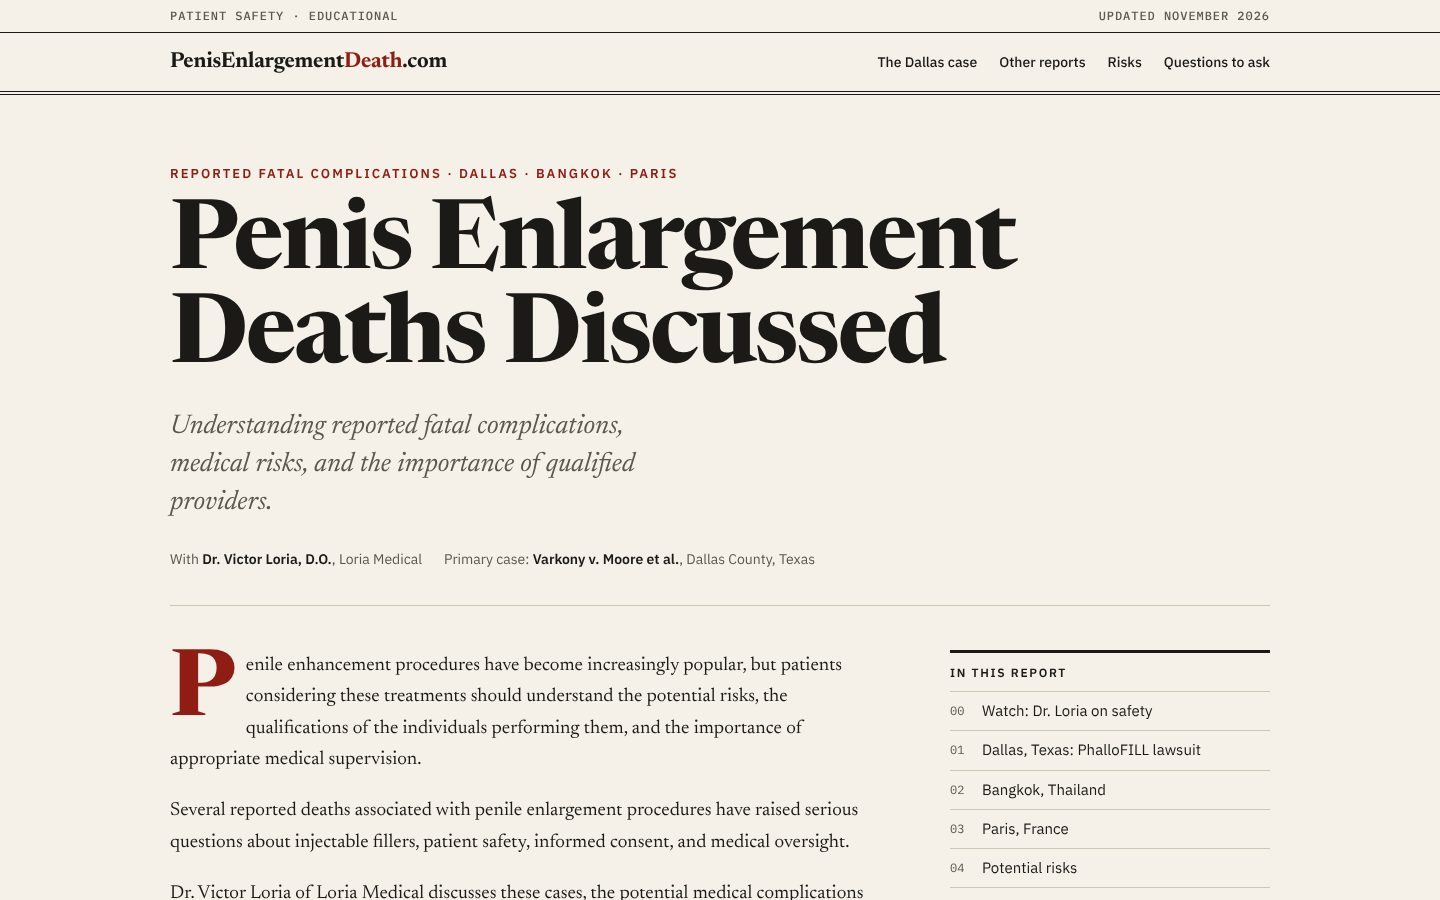
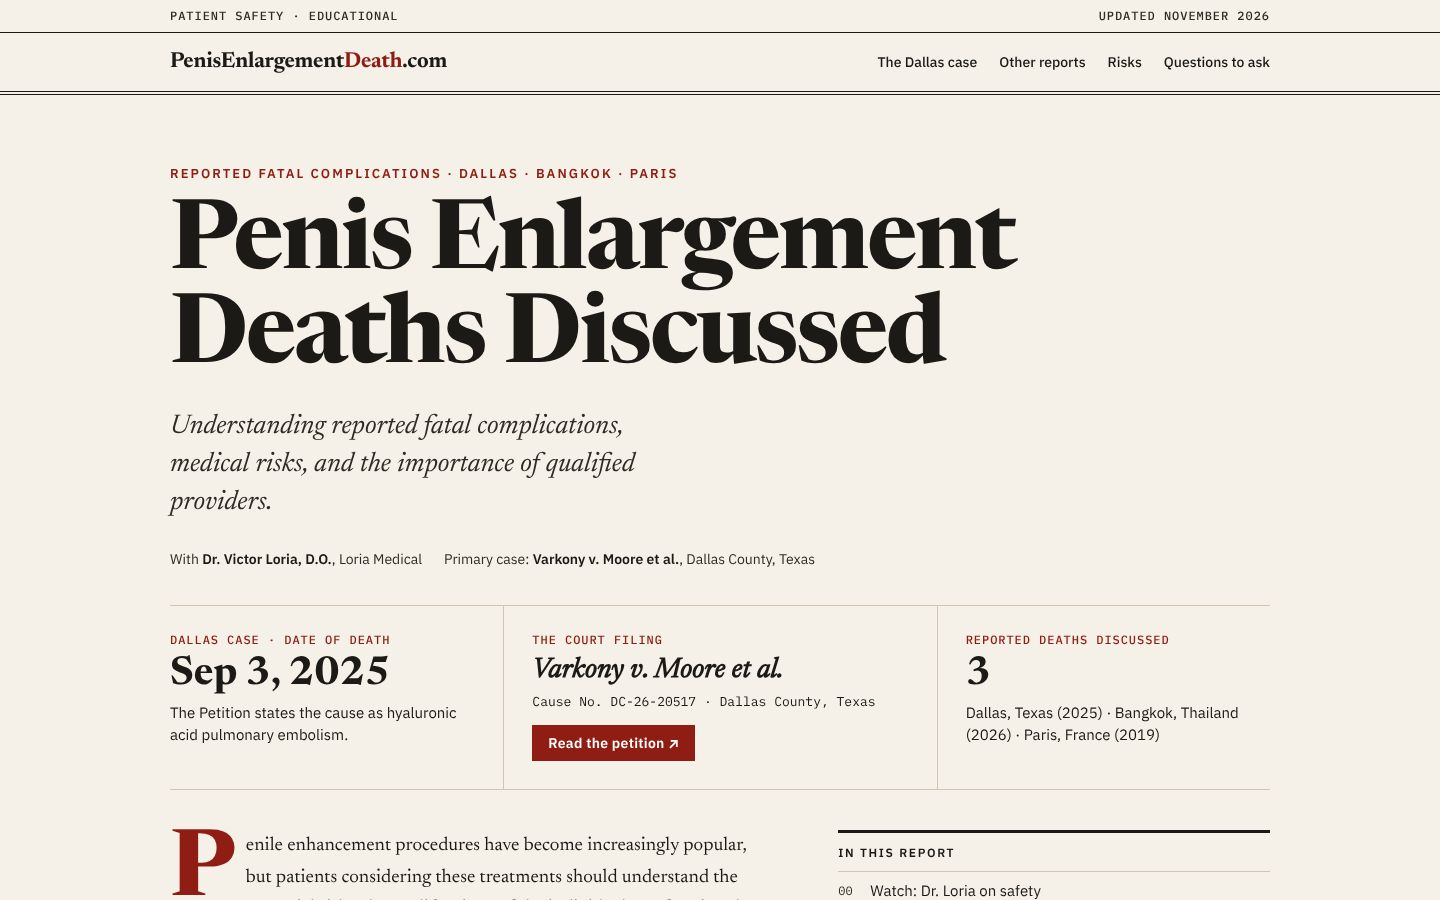
Concept 1: full-width layout
Claude-Session: https://claude.ai/code/session_016LKYeJXUpH5bp2AGxLf6xp

Changed region(s): [[0.0938, 0.6844, 0.875, 1.0], [0.6562, 0.6844, 0.875, 0.84], [0.125, 0.4667, 0.4375, 0.5289]]

diff --git a/case-file/index.html b/case-file/index.html
@@ -37,8 +37,20 @@
   .byline{display:flex;flex-wrap:wrap;gap:8px 22px;margin-top:28px;font:400 14px/1.4 'IBM Plex Sans',sans-serif;color:var(--muted)}
   .byline b{color:var(--ink);font-weight:600}
   /* article grid */
-  .grid{display:grid;grid-template-columns:minmax(0,1fr);max-width:860px;margin:0 auto;gap:clamp(28px,4vw,40px);padding:44px 0 20px}
-  article p{margin:0 0 1.05em}
+  main p{margin:0 0 1.05em}
+  .facts{display:grid;grid-template-columns:1fr 1.3fr 1fr;border-bottom:1px solid var(--rule)}
+  .facts .fact{padding:26px 28px 28px;border-left:1px solid var(--rule);font:400 15px/1.5 'IBM Plex Sans',sans-serif;display:flex;flex-direction:column;align-items:flex-start;gap:6px}
+  .facts .fact:first-child{border-left:0;padding-left:0}
+  .facts .fact:last-child{padding-right:0}
+  .facts .label{font:500 12px/1.3 'IBM Plex Mono',monospace;letter-spacing:.08em;text-transform:uppercase;color:var(--red)}
+  .facts .big{font:700 40px/1.05 'Newsreader',serif;color:var(--ink)}
+  .facts .big.sm{font-size:28px;line-height:1.15}
+  .facts .mono{font-size:13px;margin-bottom:8px}
+  .row{display:grid;grid-template-columns:minmax(0,7fr) minmax(0,5fr);gap:clamp(32px,5vw,64px);align-items:start;margin-top:28px}
+  .row.even{grid-template-columns:1fr 1fr}
+  .facts + .row{margin-top:40px}
+  .row .col > :first-child{margin-top:0}
+  .intro p{max-width:70ch}
   .lede::first-letter{float:left;font:700 92px/.78 'Newsreader',serif;margin:8px 10px 0 0;color:var(--red)}
   h2{font:700 clamp(30px,3.6vw,44px)/1.08 'Newsreader',serif;letter-spacing:-.015em;margin:56px 0 16px}
   h3{font:600 15px/1.3 'IBM Plex Sans',sans-serif;letter-spacing:.12em;text-transform:uppercase;margin:34px 0 12px;color:var(--ink)}
@@ -48,16 +60,16 @@
   ul.dots{margin:0 0 1.2em;padding-left:1.1em}
   ul.dots li{margin:.35em 0}
   /* video */
-  .video{position:relative;margin:30px 0 8px;aspect-ratio:16/9;background:#24221e;color:#efe9dc;display:grid;place-items:center;text-align:center;border:1px solid var(--ink)}
+  .video{position:relative;margin:0 0 8px;aspect-ratio:16/9;background:#24221e;color:#efe9dc;display:grid;place-items:center;text-align:center;border:1px solid var(--ink)}
   .video .play{width:84px;height:84px;border-radius:50%;border:2px solid #efe9dc;display:grid;place-items:center;margin:0 auto 14px}
   .video .play svg{margin-left:6px}
   .video small{display:block;font:500 12px/1.4 'IBM Plex Mono',monospace;letter-spacing:.08em;text-transform:uppercase}
   .ph-tag{position:absolute;top:12px;left:12px;background:#f6d047;color:#1b1a17;font:600 11px/1 'IBM Plex Sans',sans-serif;letter-spacing:.06em;text-transform:uppercase;padding:6px 9px}
   .caption{font:400 14px/1.5 'IBM Plex Sans',sans-serif;color:var(--muted);margin:0 0 18px}
   /* docket card */
-  .docket{border:1px solid var(--ink);background:#fbf8f1;margin:26px 0 30px}
+  .docket{border:1px solid var(--ink);background:#fbf8f1;margin:0 0 30px}
   .docket-head{display:flex;justify-content:space-between;gap:10px;background:var(--ink);color:var(--paper);padding:10px 16px;font:500 12px/1.3 'IBM Plex Mono',monospace;letter-spacing:.08em;text-transform:uppercase}
-  .docket dl{margin:0;display:grid;grid-template-columns:150px 1fr}
+  .docket dl{margin:0;display:grid;grid-template-columns:120px 1fr}
   .docket dt,.docket dd{margin:0;padding:11px 16px;border-top:1px solid var(--rule);font-size:16px;line-height:1.45}
   .docket dt{font:500 12px/1.5 'IBM Plex Mono',monospace;letter-spacing:.06em;text-transform:uppercase;color:var(--muted);padding-top:13px}
   .docket dl > :nth-child(1),.docket dl > :nth-child(2){border-top:0}
@@ -79,12 +91,14 @@
   .tl li.mark span{font-weight:700}
   .tl span{font-size:17px;line-height:1.5}
   .tl-src{font:400 13px/1.5 'IBM Plex Sans',sans-serif;color:var(--muted);margin:4px 0 0 146px}
+  .intro p{font-size:20px}
   /* callouts */
   blockquote.pull{margin:34px 0;padding:6px 0 6px 26px;border-left:4px solid var(--red);font:500 clamp(24px,2.6vw,31px)/1.3 'Newsreader',serif;font-style:italic}
   blockquote.pull cite{display:block;margin-top:10px;font:500 13px/1.4 'IBM Plex Sans',sans-serif;font-style:normal;color:var(--muted);letter-spacing:.03em}
-  .notice{background:var(--red-soft);border-left:4px solid var(--red);padding:16px 20px;margin:24px 0;font:400 16px/1.55 'IBM Plex Sans',sans-serif}
+  .notice{background:var(--red-soft);border-left:4px solid var(--red);padding:16px 20px;margin:0;font:400 16px/1.55 'IBM Plex Sans',sans-serif}
   .notice strong{display:block;font-weight:600;margin-bottom:4px;letter-spacing:.02em}
   .sources{margin:20px 0 0;padding:16px 0 0;border-top:1px dashed var(--rule);font:400 15px/1.55 'IBM Plex Sans',sans-serif}
+  .row .sources{margin:0;padding-top:0;border-top:0}
   .sources b{display:block;font:500 12px/1 'IBM Plex Mono',monospace;letter-spacing:.1em;text-transform:uppercase;color:var(--muted);margin-bottom:10px}
   .sources ul{margin:0;padding:0;list-style:none}
   .sources li{margin:0 0 10px;padding-left:18px;position:relative;word-break:break-word}
@@ -101,19 +115,18 @@
   .case .why b{display:block;font:600 12px/1 'IBM Plex Sans',sans-serif;letter-spacing:.12em;text-transform:uppercase;margin-bottom:8px}
   .case .fine{font:italic 400 15px/1.5 'Newsreader',serif;color:var(--muted)}
   /* risks */
-  .risk-list{list-style:none;padding:0;margin:14px 0 18px;display:grid;grid-template-columns:1fr 1fr;gap:0 28px}
+  .risk-list{list-style:none;padding:0;margin:14px 0 18px;display:grid;grid-template-columns:repeat(3,1fr);gap:0 32px}
   .risk-list li{padding:12px 0 12px 30px;border-top:1px solid var(--rule);position:relative;font-size:17px}
   .risk-list li::before{content:"";position:absolute;left:0;top:20px;width:14px;height:2px;background:var(--red)}
   .risk-list li.grave{font-weight:700}
   /* questions */
-  .qs{list-style:none;counter-reset:q;margin:16px 0 20px;padding:0}
+  .qs{list-style:none;counter-reset:q;margin:16px 0 20px;padding:0;display:grid;grid-template-columns:1fr 1fr;gap:0 48px}
   .qs li{counter-increment:q;display:grid;grid-template-columns:62px 1fr;align-items:baseline;padding:16px 0;border-top:1px solid var(--rule);font-size:20px;line-height:1.4}
   .qs li::before{content:counter(q);font:700 40px/1 'Newsreader',serif;color:var(--red)}
-  /* sidebar */
-  aside{position:relative}
-  aside{order:-1}
-  .side{display:grid;grid-template-columns:1fr 1fr;gap:22px;align-items:start}
-  .side .toc-box{display:none}
+  .qs li.qs-note{counter-increment:none;display:block;font:italic 400 18px/1.5 'Newsreader',serif;color:var(--muted);padding-top:20px}
+  .qs li.qs-note::before{content:none}
+  blockquote.pull.wide{margin:48px 0 40px;font-size:clamp(28px,3.2vw,40px);line-height:1.25;max-width:none}
+  .doctor p{max-width:none}
   .box{border-top:3px solid var(--ink);padding-top:14px}
   .box h4{margin:0 0 12px;font:600 12px/1 'IBM Plex Sans',sans-serif;letter-spacing:.14em;text-transform:uppercase}
   .toc{list-style:none;margin:0;padding:0;font:400 15px/1.35 'IBM Plex Sans',sans-serif}
@@ -121,8 +134,6 @@
   .toc a{display:flex;gap:10px;padding:9px 0;color:var(--ink);text-decoration:none}
   .toc a:hover{color:var(--red)}
   .toc .n{font-family:'IBM Plex Mono',monospace;font-size:12px;color:var(--muted);padding-top:2px;min-width:22px}
-  .fact{font:400 15px/1.5 'IBM Plex Sans',sans-serif;background:#fbf8f1;border:1px solid var(--rule);padding:16px}
-  .fact .big{display:block;font:700 34px/1.05 'Newsreader',serif;color:var(--red);margin-bottom:6px}
   /* doctor */
   .doctor{display:grid;grid-template-columns:220px 1fr;gap:30px;align-items:start;background:var(--ink);color:var(--paper);padding:clamp(24px,4vw,40px);margin:60px 0 0}
   .portrait{aspect-ratio:4/5;border:1.5px dashed #8b8578;display:grid;place-items:center;text-align:center;font:500 12px/1.5 'IBM Plex Mono',monospace;color:#e4ddcf;padding:12px;letter-spacing:.05em;text-transform:uppercase}
@@ -137,7 +148,7 @@
   footer p{margin:0 0 10px;max-width:90ch}
   .foot-row{display:flex;justify-content:space-between;flex-wrap:wrap;gap:12px;border-top:1px solid var(--rule);padding-top:16px;margin-top:20px}
   .foot-row a{color:var(--ink)}
-  @media (max-width:980px){.side{grid-template-columns:1fr}.side .fact{display:none}.nav{display:none}}
+  @media (max-width:980px){.nav{display:none}.row,.row.even{grid-template-columns:1fr;gap:28px}.facts{grid-template-columns:1fr}.facts .fact{border-left:0;border-top:1px solid var(--rule);padding:20px 0}.facts .fact:first-child{border-top:0}.risk-list{grid-template-columns:1fr 1fr}.qs{grid-template-columns:1fr}}
   @media (max-width:680px){
     .cases{grid-template-columns:1fr}.case{padding-right:0}.case + .case{border-left:0;border-top:1px solid var(--rule);padding-left:0}
     .risk-list{grid-template-columns:1fr}.doctor{grid-template-columns:1fr}.portrait{max-width:200px}
@@ -168,18 +179,44 @@
     <div class="byline"><span>With <b>Dr. Victor Loria, D.O.</b>, Loria Medical</span><span>Primary case: <b>Varkony v. Moore et al.</b>, Dallas County, Texas</span></div>
   </section>
 
-  <div class="grid">
-    <article>
+  <div class="facts">
+    <div class="fact"><span class="label">Dallas case · date of death</span><span class="big">Sep 3, 2025</span>The Petition states the cause as hyaluronic acid pulmonary embolism.</div>
+    <div class="fact"><span class="label">The court filing</span><span class="big sm"><i>Varkony v. Moore et al.</i></span><span class="mono">Cause No. DC-26-20517 · Dallas County, Texas</span><a class="btn" href="../assets/Varkony-v-Moore-First-Amended-Petition.pdf" target="_blank" rel="noopener">Read the petition ↗</a></div>
+    <div class="fact"><span class="label">Reported deaths discussed</span><span class="big">3</span>Dallas, Texas (2025) · Bangkok, Thailand (2026) · Paris, France (2019)</div>
+  </div>
+
+  <div class="row">
+    <div class="col">
       <p class="lede">Penile enhancement procedures have become increasingly popular, but patients considering these treatments should understand the potential risks, the qualifications of the individuals performing them, and the importance of appropriate medical supervision.</p>
       <p>Several reported deaths associated with penile enlargement procedures have raised serious questions about injectable fillers, patient safety, informed consent, and medical oversight.</p>
       <p>Dr. Victor Loria of Loria Medical discusses these cases, the potential medical complications involved, and what patients should know before undergoing penile enhancement.</p>
 
-      <div class="sec-label" id="video">Video</div>
-      <h2>Watch: Dr. Loria Discusses Penile Enhancement Safety</h2>
+    </div>
+    <div class="col">
+      <div class="box"><h4>In this report</h4>
+          <ol class="toc">
+            <li><a href="#video"><span class="n">00</span>Watch: Dr. Loria on safety</a></li>
+            <li><a href="#dallas"><span class="n">01</span>Dallas, Texas: PhalloFILL lawsuit</a></li>
+            <li><a href="#other-cases"><span class="n">02</span>Bangkok, Thailand</a></li>
+            <li><a href="#other-cases"><span class="n">03</span>Paris, France</a></li>
+            <li><a href="#risks"><span class="n">04</span>Potential risks</a></li>
+            <li><a href="#questions"><span class="n">05</span>Questions to ask</a></li>
+            <li><a href="#dr-loria"><span class="n">06</span>Dr. Loria on patient safety</a></li>
+          </ol>
+      </div>
+    </div>
+  </div>
+
+  <div class="sec-label" id="video">Video</div>
+  <h2>Watch: Dr. Loria Discusses Penile Enhancement Safety</h2>
+  <div class="row">
+    <div class="col">
       <div class="video" role="img" aria-label="Video placeholder: Dr. Victor Loria">
         <span class="ph-tag">Placeholder · hidden until the video is filmed</span>
         <div><div class="play"><svg width="30" height="34" viewBox="0 0 30 34" aria-hidden="true"><path d="M0 0l30 17L0 34z" fill="#efe9dc"/></svg></div><small>Dr. Victor Loria · video coming soon</small></div>
       </div>
+    </div>
+    <div class="col">
       <p class="caption">In this educational discussion, Dr. Loria addresses:</p>
       <ul class="dots">
         <li>Reported deaths following penile enhancement procedures.</li>
@@ -188,12 +225,33 @@
         <li>The importance of understanding injectable materials.</li>
         <li>Questions patients should ask before undergoing treatment.</li>
       </ul>
+    </div>
+  </div>
 
-      <div class="sec-label" id="dallas">Case 1 · Primary focus</div>
-      <h2>Dallas, Texas: The PhalloFILL Wrongful-Death Lawsuit</h2>
+  <div class="sec-label" id="dallas">Case 1 · Primary focus</div>
+  <h2>Dallas, Texas: The PhalloFILL Wrongful-Death Lawsuit</h2>
+  <div class="row">
+    <div class="col">
       <p><b>Patient death: September 3, 2025.</b> A wrongful-death lawsuit filed in Dallas County, Texas, raises serious concerns about the administration of hyaluronic acid dermal fillers for penile girth enhancement.</p>
       <p>According to the First Amended Original Petition filed September 28, 2026, Iris Varkony, the mother of the deceased patient identified as O.V., brought legal claims against William Moore, AdvancedYOU, The PhalloFILL Clinics, and several additional defendants.</p>
 
+      <h3>What does the lawsuit allege?</h3>
+      <p>The Petition alleges that:</p>
+      <ol class="clauses">
+        <li><span>William Moore founded and commercialized the PhalloFILL penile enhancement procedure.</span></li>
+        <li><span>Moore was identified as the injector in the patient's treatment records.</span></li>
+        <li><span>Moore lacked the medical licensing and qualifications necessary to perform, direct, or supervise the injections.</span></li>
+        <li><span>The patient did not receive appropriate medical evaluation, supervision, or disclosure of certain risks.</span></li>
+        <li><span>The patient underwent a further PhalloFILL injection session on September 3, 2025, and died later that day.</span></li>
+      </ol>
+
+      <h3>Reported autopsy findings</h3>
+      <p>The Petition states that an autopsy identified <b>hyaluronic acid pulmonary embolism</b> as the cause of death.</p>
+      <p>It further alleges that pathological findings were consistent with embolized filler material associated with multiple treatment sessions.</p>
+      <p><i>These statements are drawn from the plaintiff's court filing. The underlying autopsy report has not been independently evaluated for this article.</i></p>
+
+    </div>
+    <div class="col">
       <div class="docket">
         <div class="docket-head"><span>Court filing</span><span>Filed 09/28/2026</span></div>
         <dl>
@@ -206,17 +264,6 @@
         </dl>
         <div class="pdf"><span>Read the full petition (PDF, 46 pages)</span><a class="btn" href="../assets/Varkony-v-Moore-First-Amended-Petition.pdf" target="_blank" rel="noopener">Open PDF ↗</a></div>
       </div>
-
-      <h3>What does the lawsuit allege?</h3>
-      <p>The Petition alleges that:</p>
-      <ol class="clauses">
-        <li><span>William Moore founded and commercialized the PhalloFILL penile enhancement procedure.</span></li>
-        <li><span>Moore was identified as the injector in the patient's treatment records.</span></li>
-        <li><span>Moore lacked the medical licensing and qualifications necessary to perform, direct, or supervise the injections.</span></li>
-        <li><span>The patient did not receive appropriate medical evaluation, supervision, or disclosure of certain risks.</span></li>
-        <li><span>The patient underwent a further PhalloFILL injection session on September 3, 2025, and died later that day.</span></li>
-      </ol>
-
       <h3>The treatment timeline, as alleged</h3>
       <ol class="tl">
         <li><time>Jun 25, 2025</time><span>First injection session; treatment record on file.</span></li>
@@ -227,24 +274,25 @@
       </ol>
       <p class="tl-src">Dates from the Petition, ¶¶ 67–71 (treatment records dated June 25, July 22, August 12 and September 3, 2025).</p>
 
-      <h3>Reported autopsy findings</h3>
-      <p>The Petition states that an autopsy identified <b>hyaluronic acid pulmonary embolism</b> as the cause of death.</p>
-      <p>It further alleges that pathological findings were consistent with embolized filler material associated with multiple treatment sessions.</p>
-      <p><i>These statements are drawn from the plaintiff's court filing. The underlying autopsy report has not been independently evaluated for this article.</i></p>
-
-      <blockquote class="pull">This lawsuit raises important questions about who performs injectable penile enhancement procedures, how medical supervision is provided, what risks are disclosed, and how complications are recognized and addressed.<cite>Why this case matters</cite></blockquote>
-
+    </div>
+  </div>
+  <blockquote class="pull wide">This lawsuit raises important questions about who performs injectable penile enhancement procedures, how medical supervision is provided, what risks are disclosed, and how complications are recognized and addressed.<cite>Why this case matters</cite></blockquote>
+  <div class="row even">
+    <div class="col">
       <div class="notice"><strong>Important</strong>The allegations described above are assertions made by the plaintiff and should not be interpreted as judicial findings, established liability, or a determination that any defendant committed wrongdoing.</div>
-
+    </div>
+    <div class="col">
       <div class="sources"><b>Supporting sources</b>
         <ul>
           <li>News article: <a href="https://hoodline.com/2026/10/dallas-filler-death-what-the-autopsy-found-and-what-the-lawsuit-alleges/" target="_blank" rel="noopener">Hoodline, "Dallas filler death: what the autopsy found and what the lawsuit alleges"</a></li>
           <li>Court filing: <i>Varkony v. Moore et al.</i>, Cause No. DC-26-20517, 116th Judicial District Court, Dallas County, Texas. <a href="../assets/Varkony-v-Moore-First-Amended-Petition.pdf" target="_blank" rel="noopener">First Amended Petition (PDF)</a></li>
         </ul>
       </div>
+    </div>
+  </div>
 
-      <div class="sec-label" id="other-cases">Other reported deaths</div>
-      <h2>Bangkok and Paris</h2>
+  <div class="sec-label" id="other-cases">Other reported deaths</div>
+  <h2>Bangkok and Paris</h2>
       <div class="cases">
         <section class="case">
           <div class="where">Case 2 · Bangkok, Thailand</div>
@@ -274,9 +322,11 @@
         </section>
       </div>
 
-      <div class="sec-label" id="risks">Risks</div>
-      <h2>Understanding the Potential Risks of Penile Enhancement Injections</h2>
+  <div class="sec-label" id="risks">Risks</div>
+  <h2>Understanding the Potential Risks of Penile Enhancement Injections</h2>
+  <div class="intro">
       <p>Penile enhancement injections are medical procedures and may carry significant risks. Depending on the material, injection technique, patient characteristics, and other factors, potential complications may include:</p>
+  </div>
       <ul class="risk-list">
         <li>Infection and inflammatory reactions.</li>
         <li>Nodules, irregularities, or unwanted changes in appearance.</li>
@@ -287,9 +337,11 @@
       </ul>
       <p><i>Not every complication is caused by the same mechanism, and risks differ between products and techniques.</i></p>
 
-      <div class="sec-label" id="questions">Before treatment</div>
-      <h2>Questions Every Patient Should Ask Before Treatment</h2>
+  <div class="sec-label" id="questions">Before treatment</div>
+  <h2>Questions Every Patient Should Ask Before Treatment</h2>
+  <div class="intro">
       <p>Before undergoing a penile enhancement procedure, patients should consider asking:</p>
+  </div>
       <ol class="qs">
         <li>Who will personally perform my procedure, and what medical license and training do they hold?</li>
         <li>What exact product or substance will be injected?</li>
@@ -298,31 +350,9 @@
         <li>What medical evaluation will I receive beforehand?</li>
         <li>What emergency procedures and resources are available if a complication occurs?</li>
         <li>What follow-up care will be provided?</li>
+              <li class="qs-note">Patients should be given the opportunity to discuss the benefits, limitations, alternatives, and risks of a proposed treatment before consenting.</li>
       </ol>
-      <p>Patients should be given the opportunity to discuss the benefits, limitations, alternatives, and risks of a proposed treatment before consenting.</p>
-    </article>
 
-    <aside>
-      <div class="side">
-        <div class="fact"><span class="big">Sep 3, 2025</span>Date of death in the Dallas case. The Petition states the cause as hyaluronic acid pulmonary embolism.</div>
-        <div class="box"><h4>The court filing</h4>
-          <p class="sans" style="font-size:15px;line-height:1.5;margin:0 0 12px">Varkony v. Moore et al.<br><span class="mono" style="font-size:13px">Cause No. DC-26-20517</span></p>
-          <a class="btn" href="../assets/Varkony-v-Moore-First-Amended-Petition.pdf" target="_blank" rel="noopener">Read the petition ↗</a>
-        </div>
-        <div class="box toc-box"><h4>In this report</h4>
-          <ol class="toc">
-            <li><a href="#video"><span class="n">00</span>Watch: Dr. Loria on safety</a></li>
-            <li><a href="#dallas"><span class="n">01</span>Dallas, Texas: PhalloFILL lawsuit</a></li>
-            <li><a href="#other-cases"><span class="n">02</span>Bangkok, Thailand</a></li>
-            <li><a href="#other-cases"><span class="n">03</span>Paris, France</a></li>
-            <li><a href="#risks"><span class="n">04</span>Potential risks</a></li>
-            <li><a href="#questions"><span class="n">05</span>Questions to ask</a></li>
-            <li><a href="#dr-loria"><span class="n">06</span>Dr. Loria on patient safety</a></li>
-          </ol>
-        </div>
-      </div>
-    </aside>
-  </div>
 
   <section class="doctor" id="dr-loria">
     <div class="portrait">[Photo of Dr. Victor Loria]</div>

diff --git a/README.md b/README.md
@@ -6,7 +6,7 @@ Static mockups for Maria and Dr. Loria to choose from, built 2026-11-20 around M
 | Path | Concept |
 | --- | --- |
 | `index.html` | Gallery of the three concepts |
-| `case-file/` | 1 · The Case File: investigative news report, Newsreader + IBM Plex, cream and deep red, docket card, petition timeline, single centered reading column with the date and court filing boxes side by side above it (no side column) |
+| `case-file/` | 1 · The Case File: investigative news report, Newsreader + IBM Plex, cream and deep red, docket card, petition timeline, full-width layout matching the header and footer: key-facts strip under the headline, then paired rows (intro + contents, video + topics, Dallas story + court card and timeline), two-column cases and questions, three-column risks |
 | `patient-guide/` | 2 · Patient Safety Guide: deep teal/mint/amber, Plus Jakarta Sans + Source Serif 4, video beside the headline, case tabs, risk icon cards, tickable/printable question checklist |
 | `three-cities/` | 3 · Three Cities: dark documentary style, Anton + Inter, map hero (Dallas, Paris, Bangkok), numbered chapters, letterbox video |
 | `assets/Varkony-v-Moore-First-Amended-Petition.pdf` | The petition Maria attached (the "[LINK TO PETITION PDF]" in the copy) |
